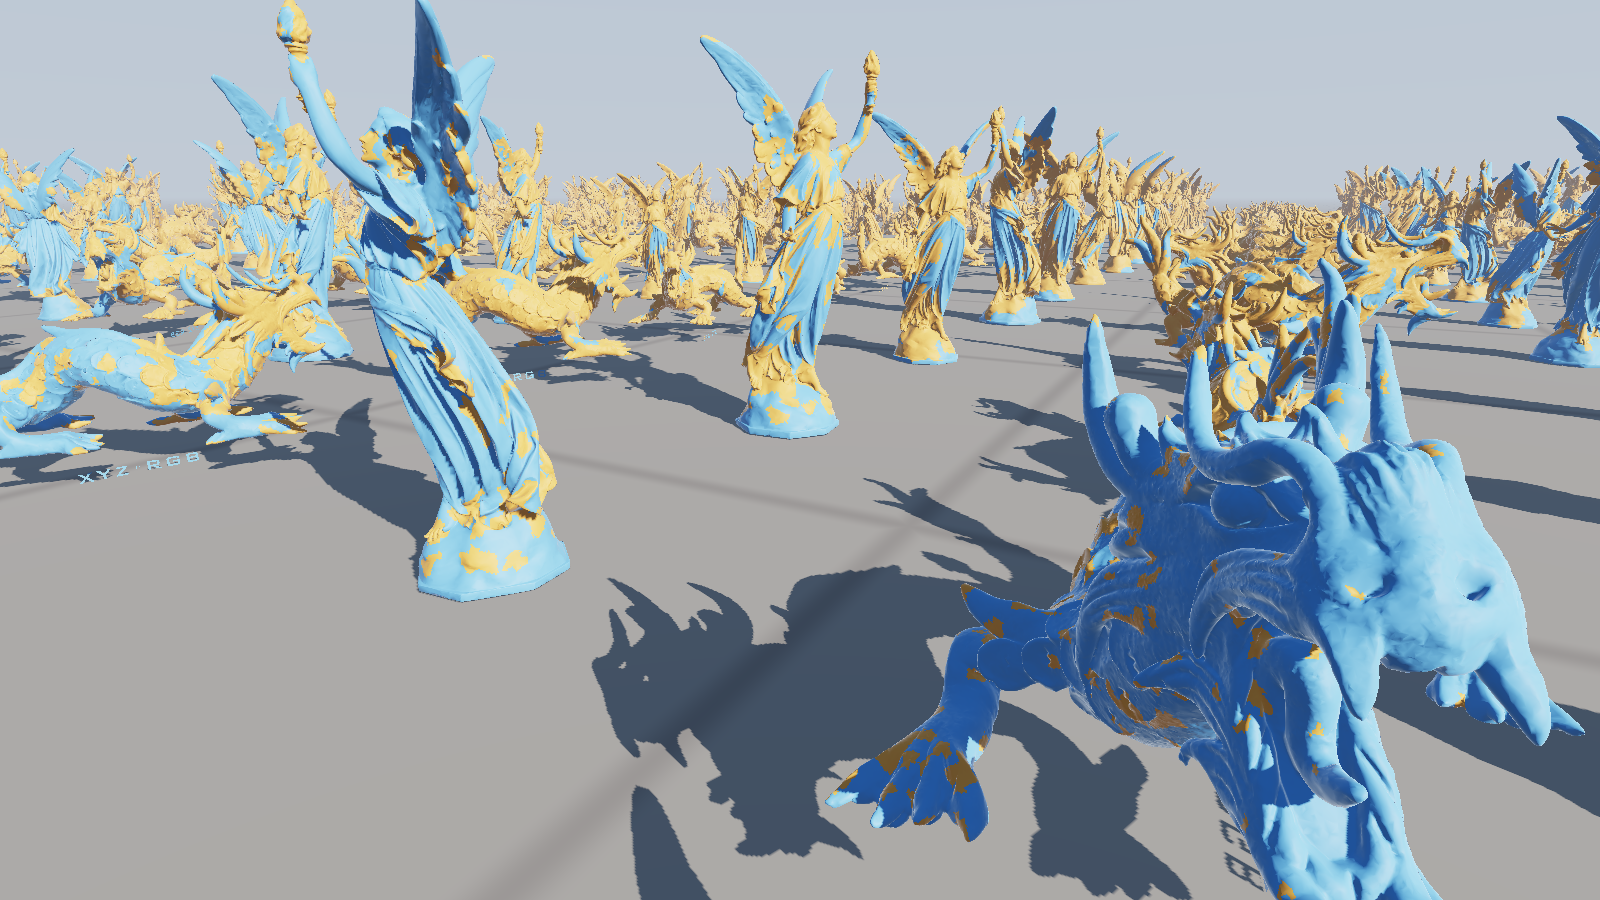
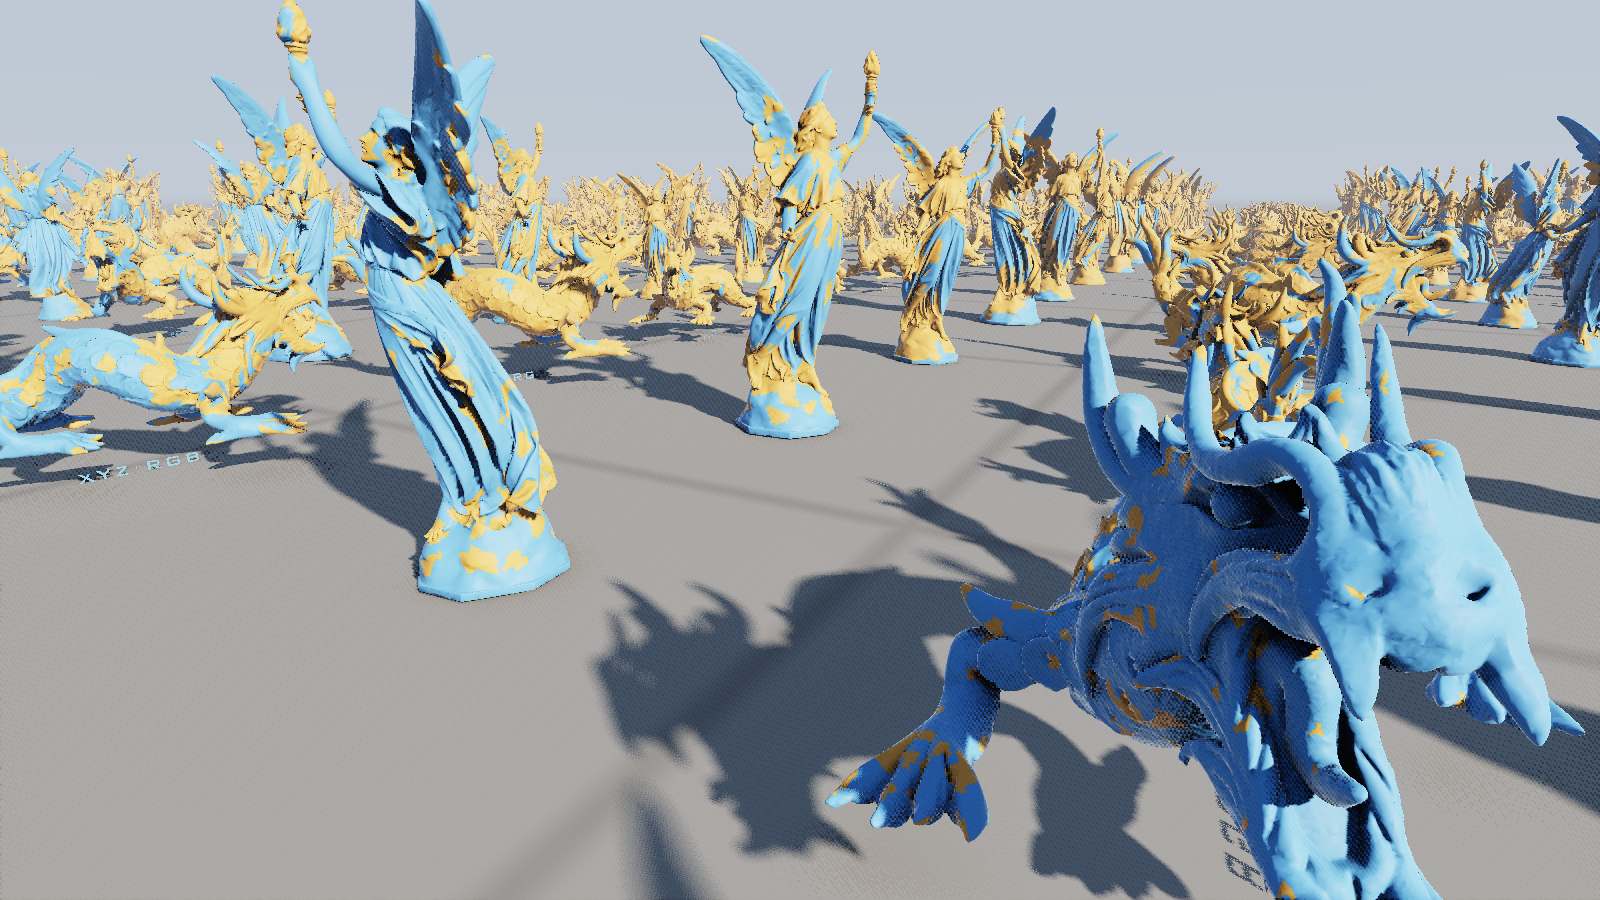
docs: describe ambient occlusion and soft shadows
The readme covers stage 7: ground-truth ambient occlusion in shading,
contact-hardening soft shadows in the shadow maps, empty moving layers
skipped, and the browser's versions, with the keys and options for
each. Every number was measured again: the three cameras are 0.92, 1.03
and 0.85 ms with everything on (0.81, 0.86 and 0.76 with hard shadows),
and the motion table now compares soft shadow maps with hard ray traced
shadows, ambient occlusion on in both. The images are rendered again.

diff --git a/README.md b/README.md
@@ -17,10 +17,10 @@ threshold and the crowd size there to play with.
 ![900 instances of lucy and the xyz rgb dragon in sunlight, shadowed by virtual shadow maps](docs/crowd.png)
 
 900 instances of lucy (28 million triangles) and the xyz rgb dragon (7.2 million): 15.9
-billion triangles at full detail, drawn at 1920x1080 in 0.75 ms on an rx 9070 xt,
-shadows and antialiasing included. about 3 million triangles reach the screen, from 23
-mb of the 579 mb on disk. a million instances (17.6 trillion triangles) take 1.06 ms,
-and instances can move.
+billion triangles at full detail, drawn at 1920x1080 in 0.92 ms on an rx 9070 xt, soft
+shadows, ambient occlusion and antialiasing included. about 3 million triangles reach
+the screen, from 23 mb of the 579 mb on disk. a million instances (17.6 trillion
+triangles) take about 1.3 ms, and instances can move.
 
 ## how it works
 
@@ -81,21 +81,30 @@ and instances can move.
    were last frame.
 5. **shading** (`shade.comp`) refetches each pixel's triangle and hits it with the
    pixel's ray for exact barycentrics. five materials (marble, sandstone, granite, bronze,
-   gold), lambert plus a ggx lobe.
+   gold), lambert plus a ggx lobe. sky, reflected and rim light are scaled by
+   ground-truth ambient occlusion (`ao.comp`, after jimenez and intel's xegtao): half
+   resolution, two slices a pixel rotated each frame for taa to average, reading a small
+   depth chain (`ao_depth.comp`) so far taps stay in cache. 0.08 ms; `--no-ao` or g.
 6. **shadows: virtual shadow maps** (`vsm.glsl`, `vsm_*.comp`). the sun's depth lives in
    a clipmap around the camera: 12 levels of 32x32 pages of 128x128 texels, each level's
    texels twice the last's, backed by a pool of physical pages. each frame every pixel
    marks the page it will read, missing pages get physical ones, and only new or invalid
    pages are drawn, from the same hierarchy seen from the sun with errors in that level's
    texels. pages keep two layers: still instances, drawn once (or until their geometry
-   has loaded), and moving ones, redrawn where something moved. with the camera still
-   they cost 0.06 ms; flying through the crowd draws about 3 pages a frame.
+   has loaded), and moving ones, redrawn where something moved and skipped by lookups
+   where empty. with the camera still they cost 0.06 ms; flying through the crowd draws
+   about 3 pages a frame.
+
+   shadows soften with distance from what casts them: a blocker search sizes each
+   penumbra for a sun drawn 1.5 degrees wide (a little wider than the real one, so it
+   shows at statue scale), then rotated taps filter over it for taa to average. 0.11
+   ms; `--hard-shadows` or j.
 
    ray traced shadows are still there (`--shadows rt`): coarser copies of each model,
    half resolution with full resolution at edges, moving instances in a refitted second
-   structure. they shade these views in 0.38 to 0.58 ms against 0.23 to 0.29, grow with
-   the instance count and need ray queries; the shadow maps draw from the full hierarchy,
-   so fine folds shadow themselves in more detail.
+   structure. hard edged, they cost about what the soft shadow maps do here, grow with the
+   instance count and need ray queries; the shadow maps draw from the full hierarchy, so
+   fine folds shadow themselves in more detail.
 
 7. **antialiasing** (`taa.comp`). eight sub-pixel offsets in turn, each pixel blended 10%
    into a history reprojected through last frame's camera (and a moving instance's last
@@ -131,20 +140,21 @@ small circle, computed in the shaders from the time (`animate()` in `common.glsl
 million moving instances need no uploads. occlusion and antialiasing use each instance's
 last transform, and the shadow maps redraw the pages it crossed.
 
-| instances | moving | shadow maps | ray traced |
+| instances | moving | shadow maps (soft) | ray traced (hard) |
 |---|---|---|---|
-| 900 | none | 0.74 ms | 0.85 ms |
-| 900 | 1% | 0.93 ms | 1.03 ms |
-| 900 | half | 1.32 ms | 1.12 ms |
-| 90,000 | 1% | 1.00 ms | 1.33 ms |
-| 1,000,000 | none | 1.06 ms | 1.34 ms |
-| 1,000,000 | 1% | 1.40 ms | 1.77 ms |
+| 900 | none | 0.97 ms | 0.97 ms |
+| 900 | 1% | 1.18 ms | 1.16 ms |
+| 900 | half | 1.76 ms | 1.25 ms |
+| 90,000 | 1% | 1.22 ms | 1.46 ms |
+| 1,000,000 | none | 1.33 ms | 1.47 ms |
+| 1,000,000 | 1% | 1.65 ms | 1.91 ms |
 
-the crowd view at 1920x1080. half the crowd moving is the one case the shadow maps lose:
-450 statues redrawn into 156 pages a frame cost 0.62 ms. a ray traced refit on radv costs
-by the size of the whole structure (2.7k entries 0.25 ms, 270k 0.94 ms), so still
-instances get a structure of their own. at a million, occlusion culling is what makes it
-work: without it the view draws 72 million triangles in 3.84 ms.
+the crowd view at 1920x1080, ambient occlusion on in both; runs vary by a few
+hundredths. half the crowd moving is where the shadow maps lose: 450 statues redrawn
+into their pages every frame. a ray traced refit on radv costs by the size of the whole
+structure (2.7k entries 0.25 ms, 270k 0.94 ms), so still instances get a structure of
+their own. at a million, occlusion culling is what makes it work: without it the view
+draws 72 million triangles in 3.84 ms.
 
 ![lucy, each cluster in its own colour](docs/clusters.png)
 
@@ -175,14 +185,15 @@ or push constants:
   offset per dispatch.
 * shadows are the viewer's virtual shadow maps, in a module of their own
   (`web/vsm.wgsl`) to keep the bind group small, their indirect arguments in their own
-  buffer (a dispatch can't write the buffer it reads arguments from). materials and
-  antialiasing match the viewer.
+  buffer (a dispatch can't write the buffer it reads arguments from). soft shadows use
+  fewer taps than the viewer; ambient occlusion (`web/ao.wgsl`), materials and
+  antialiasing match it.
 * a quarter of the middle 30x30 instances move, and the crowd slider goes to a million.
 
 the models are trimmed to 4 million triangles at their finest (`--max-triangles`): about
 4 mb of gzipped metadata each, up front, and 71 mb of pages, streamed. in chrome on the
-rx 9070 xt at 1600x813, 900 instances take 0.79 ms of gpu time once streaming settles,
-1.23 ms with the middle moving, and a million 1.85 ms. it needs 16 storage buffers per
+rx 9070 xt at 1600x813, 900 instances take 1.07 ms of gpu time once streaming settles,
+1.45 ms with the middle moving, and a million 2.32 ms. it needs 16 storage buffers per
 shader stage, which desktop gpus allow. `web/build.sh` builds the models;
 `node tests/web_screenshot.mjs` renders the page headless.
 
@@ -206,10 +217,11 @@ models/fetch.sh            # downloads lucy and the dragon (380 mb) and builds b
 | keys | |
 |---|---|
 | w a s d, q e | move, down and up; drag to look; scroll for speed, shift to hurry |
-| 1 to 9 | shaded, clusters, triangles, lod level, groups, instances, holes, rasterizer, shadow levels |
+| 1 to 9, 0 | shaded, clusters, triangles, lod level, groups, instances, holes, rasterizer, shadow levels, ambient occlusion |
 | [ and ] | halve or double the error threshold (1 pixel) |
 | f | freeze culling, then fly out and watch it |
 | c v o r h x | cone culling, frustum culling, occlusion, compute rasterizer, shadows, antialiasing |
+| j g | soft shadows, ambient occlusion |
 | t, p | wireframe; print the camera as a `--camera` argument |
 
 `--headless --frames n --screenshot out.png` renders without a window and prints the
@@ -239,15 +251,15 @@ streaming. shading includes shadows and antialiasing.
 
 | camera | frame | culling | raster | pass 2 | shadow pages | shading | triangles |
 |---|---|---|---|---|---|---|---|
-| beside lucy (top image) | 0.75 ms | 0.17 | 0.18 | 0.10 | 0.06 | 0.24 | 3.00m |
-| raised (lod image) | 0.79 ms | 0.09 | 0.25 | 0.09 | 0.07 | 0.29 | 4.33m |
-| ground level | 0.69 ms | 0.12 | 0.18 | 0.10 | 0.06 | 0.23 | 2.59m |
+| beside lucy (top image) | 0.92 ms | 0.17 | 0.18 | 0.10 | 0.06 | 0.42 | 3.00m |
+| raised (lod image) | 1.03 ms | 0.09 | 0.24 | 0.09 | 0.06 | 0.55 | 4.33m |
+| ground level | 0.85 ms | 0.12 | 0.16 | 0.11 | 0.06 | 0.40 | 2.58m |
 
-without shadows: 0.61, 0.61 and 0.56 ms; ray traced: 0.85, 1.02 and 0.78. without
-antialiasing: 0.67, 0.72 and 0.62. the compute rasterizer saves 0.30 to 0.44 ms. occlusion
-culling removes 46% of the triangles at ground level (0.76 to 0.69 ms) and next to
-nothing from the raised camera, which sees over the crowd. the culling built for a
-million instances costs these 900 about 0.03 ms.
+hard shadows: 0.81, 0.86 and 0.76 ms; no ambient occlusion: 0.83, 0.93 and 0.78; no
+shadows: 0.69, 0.69 and 0.64; ray traced (hard): 0.92, 1.09 and 0.85; no antialiasing:
+0.85, 0.97 and 0.79. the compute rasterizer saves 0.31 to 0.42 ms. occlusion culling
+removes 46% of the triangles at ground level (0.92 to 0.85 ms) and next to nothing from
+the raised camera, which sees over the crowd.
 
 early versions drew fewer triangles (0.86 million beside lucy); measured errors now
 refuse levels that strayed several pixels. the commit messages have every step's numbers.
